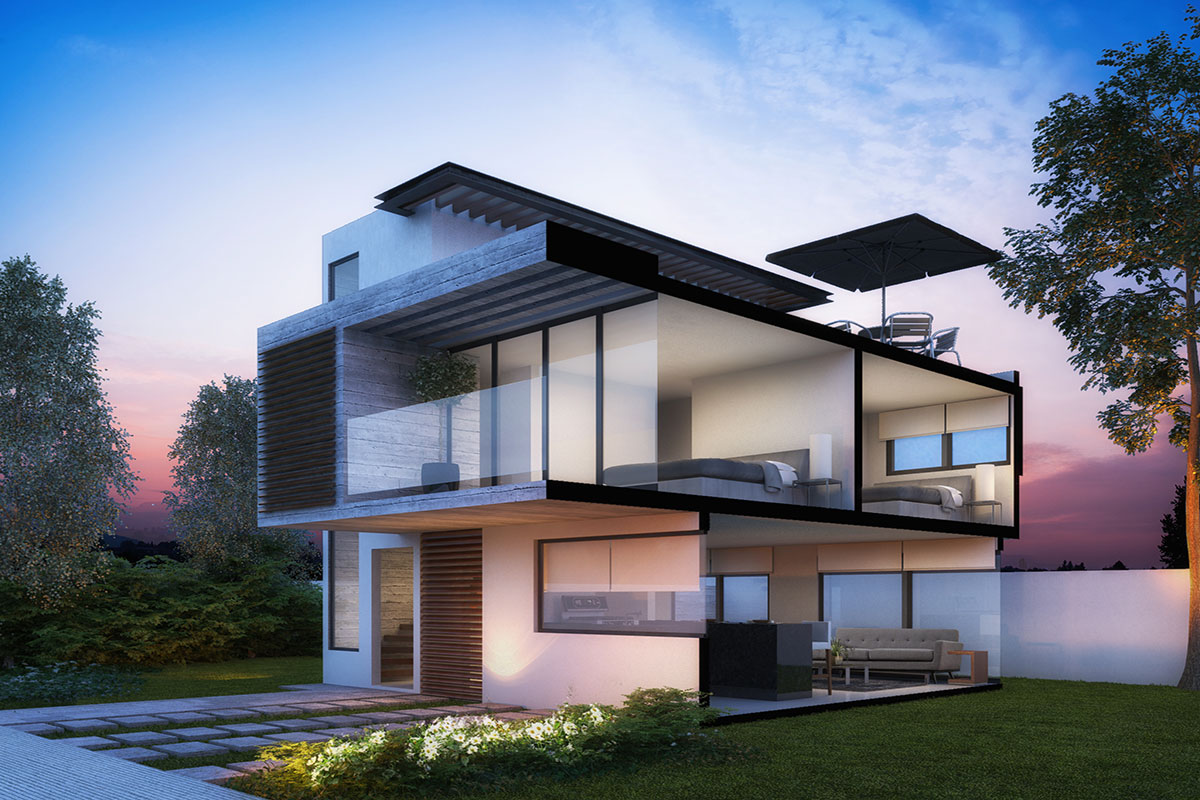
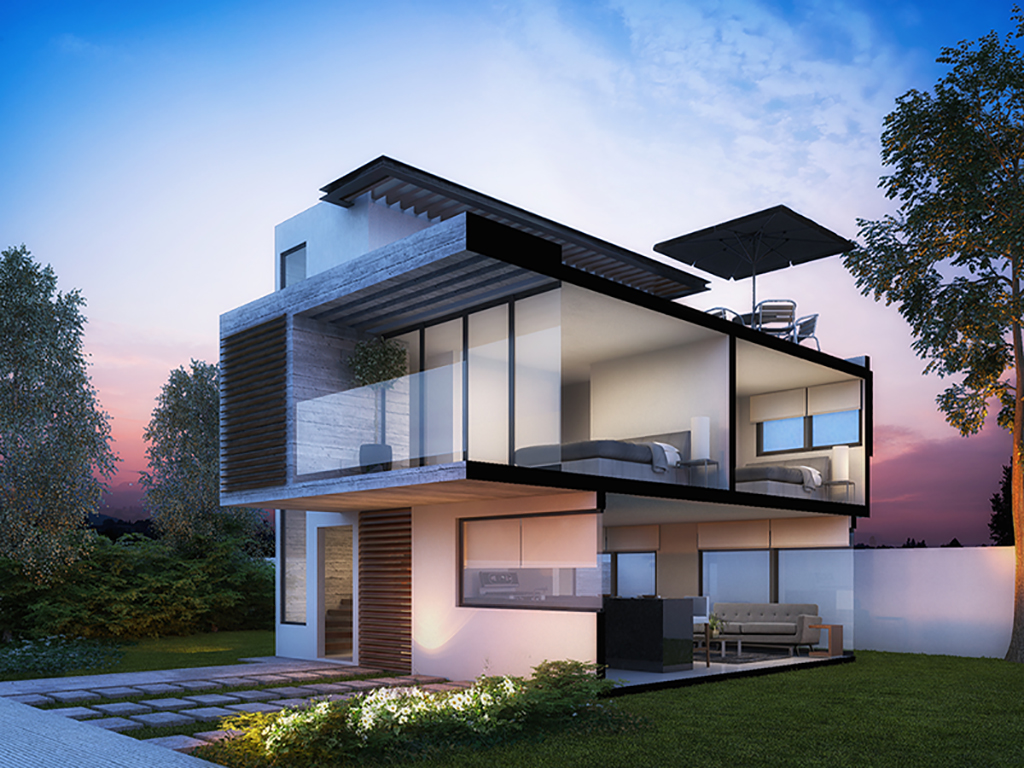
fachada_corte_web

diff --git a/unit_3/css/style.css b/unit_3/css/style.css
@@ -1,6 +1,6 @@
 body {
 	text-align: center;
-	background: url("http://Irenchita.github.io/unit_3/images/fachada_corte.jpg");
+	background: url("http://Irenchita.github.io/unit_3/images/fachada_corte_web.jpg");
 	background-size: cover;
 	color: #fff;
 	font-family: Helvetica;
